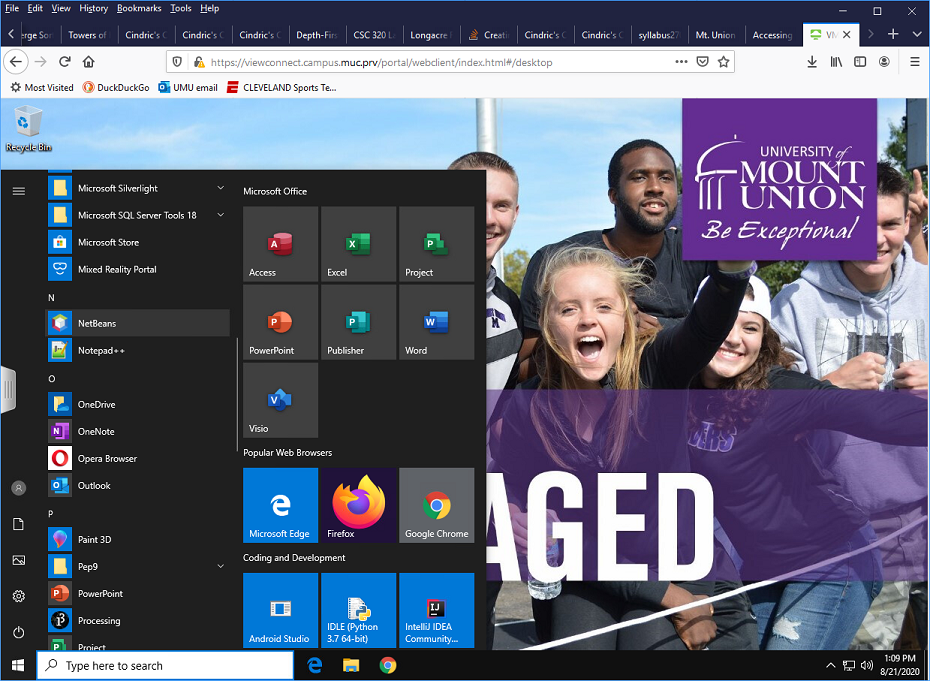
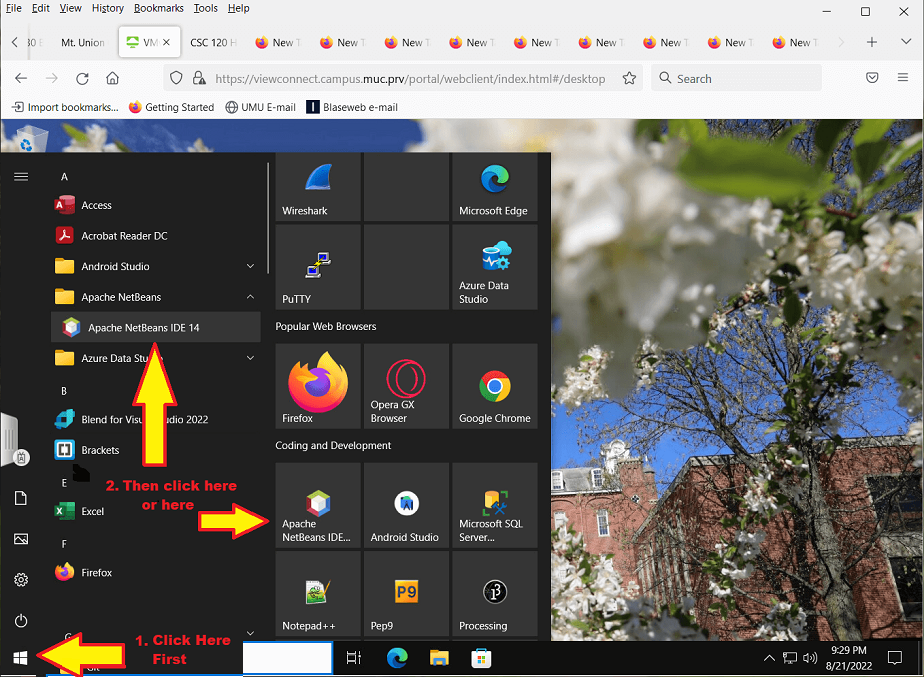
Add files via upload

diff --git a/CSLabVDI/accessCSVDI.html b/CSLabVDI/accessCSVDI.html
@@ -9,7 +9,7 @@
   
   <h2>Accessing the CS Lab Virtual Desktop with your web browser</h2>
   
-  <h3> The CS Lab Virtual Desktop is a web-based interface that allows you to run all of the programs that are installed in our Lab image using a web browser.&nbsp; You can use this interface to work in the browser as if you were working with a device that has a web browser and a mouse or trackpad.&nbsp;  All of the software you need for the course can be accessed from the Lab image.<br/><br/>
+  <h3> The CS Lab Virtual Desktop is a web-based interface that allows you to run all of the programs that are installed in our Lab image using a web browser.&nbsp; You can use this interface to work in a web browser window or tab as if you were working with an actual computer.&nbsp;  All of the software you need for the course can be accessed from the Lab image.<br/><br/>
   
   Here are steps to follow to launch the CS Virtual Desktop:</h3>
   <hr/>
@@ -21,7 +21,7 @@
 	<br /><br />
     </li>
     
-    <li>A selection of choices will appear for different lab configurations.&nbsp; As of January 6, 2021, the Computer Science image for the current semester is titled <b>D) Computer Science &ndash; 2021</b>. <br/><br/>
+    <li>A selection of choices will appear for different lab configurations.&nbsp; As of August 22, 2022, the Computer Science image for the current semester is titled <b>C) Computer Science</b>. <br/><br/>
 	<img src="Step02screenshot.png" />
 	<br /><br />
     </li>
@@ -49,7 +49,7 @@
 	
     	<ol type="A">
 	        <li> 
-			    Click the Start button and click on the top icon at the left that looks like a head and shoulders: <br/><br/>
+			    Click the Start button and click on the top icon at the left that looks like a name tag neclace where your name is shown: <br/><br/>
 	            <img src="Step06Ascreenshot.png" />
 			</li> <br/><br/>
 	        <li> 
